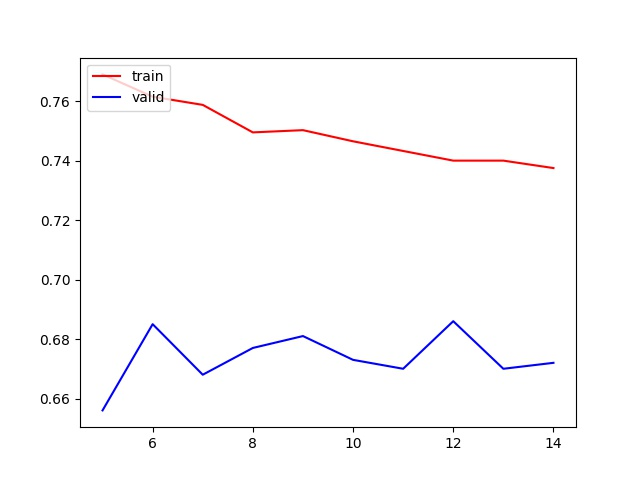
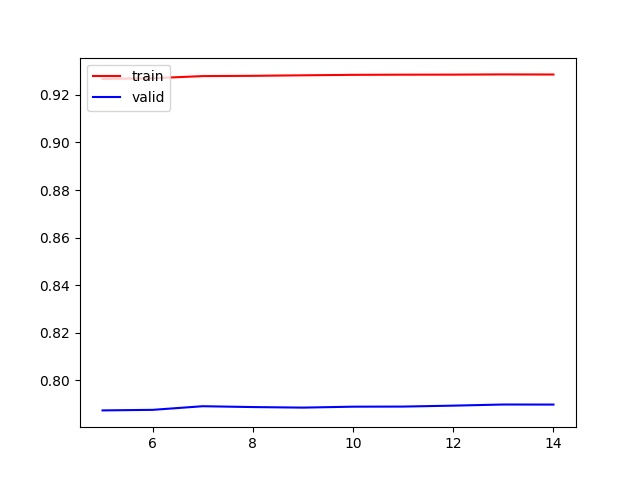
KNN COMPLETE

diff --git a/code/src/ms_2.py b/code/src/ms_2.py
@@ -13,6 +13,7 @@ from sklearn.metrics import confusion_matrix
 from sklearn.model_selection import cross_val_score
 from sklearn import metrics
 import datetime as dt
+from tune_params import *
 # def convert_to_number(data):
 #     number = preprocessing.LabelEncoder()
 #     data['outcome'] = number.fit_transform(data.outcome)
@@ -49,37 +50,21 @@ def main():
     df_2 = df.loc[:, df.columns == 'sex']
     print (df_2)
     from sklearn import preprocessing
-    le = preprocessing.LabelEncoder()
-    df_3 = df_2.apply(le.fit_transform)
-    print (df_3)
+    # le = preprocessing.LabelEncoder()
+    # df_3 = df_2.apply(le.fit_transform)
+    # print (df_3)
     enc = preprocessing.OneHotEncoder()
-    enc.fit(df_3)
-    onehotlabels = enc.transform(df_3).toarray()
+    enc.fit(df_2)
+    onehotlabels = enc.transform(df_2).toarray()
     print (onehotlabels)
-    df['sex_0'] = onehotlabels[:, 0]
-    df['sex_1'] = onehotlabels[:, 1]
+    df['female'] = onehotlabels[:, 0]
+    df['male'] = onehotlabels[:, 1]
     print (df)
     df = df.loc[:, df.columns != 'sex']
 
-
-    # from sklearn.preprocessing import MultiLabelBinarizer
-    # mlb = MultiLabelBinarizer()
-    # shift = mlb.fit_transform(df['sex'])
-    # print (shift)
-    # df['sex_0'] = shift[:, 0]
-    # df['sex_1'] = shift[:, 1]
-    #
-    # print (df)
-
-
-
-
-    # print(df)
-
-    # df =
-
     X = df.loc[:, df.columns != 'outcome']
     y = df['outcome']
+
 
     # from sklearn.preprocessing import StandardScaler
     # std_scaler = StandardScaler()
@@ -89,24 +74,49 @@ def main():
     min_max_scaler = preprocessing.MinMaxScaler()
     X = pd.DataFrame(min_max_scaler.fit_transform(X), columns=X.columns)
 
+    X['outcome'] = y
     print (X)
 
-
-    X_train, X_validation, Y_train, Y_validation = train_test_split(X, y, test_size=0.2, random_state=1)
-    #
-    # print(X_train)
-    # print(X_validation)
-    # print(Y_train)
-    # print(Y_validation)
-
-    knn = KNeighborsClassifier(n_neighbors=8, weights = 'distance')
-    knn.fit(X_train,Y_train)
-
-    print(knn.score(X_train,Y_train))
-    print(knn.score(X_validation,Y_validation))
+    params = {
+    	"n_neighbors": 5,
+    	"n_neighbors_increment": 1,
+    }
+    tune_params(X, params, loops=10, model_name="KNeighborsClassifier")
 
 
 
+
+
+
+
+
+
+
+
+
+
+
+
+
+
+
+
+
+
+
+
+
+
+
+
+
+
+
+
+
+
+
+###---------------------------------------------------------------------------------ITRAZA
 #
 # #--------------------------------------------CHANE ENCODER------------------------------
 #     le = preprocessing.LabelEncoder()

diff --git a/code/src/tune_params.py b/code/src/tune_params.py
@@ -7,8 +7,8 @@ from sklearn.ensemble import AdaBoostClassifier
 
 def tune_params(data, params, loops, model_name):
 
-	X = df.loc[:, df.columns != 'outcome']
-	y = df['outcome']
+	X = data.loc[:, data.columns != 'outcome']
+	y = data['outcome']
 	X_train, X_validation, Y_train, Y_validation = train_test_split(X, y, test_size=0.2, random_state=1)
 
 	if model_name == "RandomForestClassifier":
@@ -51,7 +51,13 @@ def tune_params(data, params, loops, model_name):
 		plt.xticks(rotation=90)
 		plt.savefig("./" + model_name + ".jpg")
 
+
+
+
+
+
 	if model_name == "KNeighborsClassifier":
+
 
 		resultset = [key for key, value in params.items() if key.endswith("_increment") == False]
 		resultset.append("training_score")
@@ -62,10 +68,10 @@ def tune_params(data, params, loops, model_name):
 		# print(plot_df)
 
 		n_neighbors = params["n_neighbors"]
-		
+
 
 		for i in range(loops):
-			model = KNeighborsClassifier(n_neighbors=n_neighbors)
+			model = KNeighborsClassifier(n_neighbors=n_neighbors, weights = 'distance')
 			model.fit(X_train,Y_train)
 
 			# print ("training score: ", model.score(X_train,Y_train))
@@ -86,6 +92,15 @@ def tune_params(data, params, loops, model_name):
 		plt.legend(loc="upper left")
 		plt.savefig("./" + model_name + ".jpg")
 
+
+
+
+
+
+
+
+
+
 	if model_name == "AdaBoostClassifier":
 
 		resultset = [key for key, value in params.items() if key.endswith("_increment") == False]
@@ -97,7 +112,7 @@ def tune_params(data, params, loops, model_name):
 		# print(plot_df)
 
 		n_estimators = params["n_estimators"]
-		
+
 
 		for i in range(loops):
 			model = AdaBoostClassifier(n_estimators=100)
@@ -122,10 +137,10 @@ def tune_params(data, params, loops, model_name):
 		plt.savefig("./" + model_name + ".jpg")
 
 
-df = pd.read_csv("../results/cases_train_processed.csv")
-df = df.head(5000)
-df = df.drop(columns=["province", "country", "date_confirmation", "sex"])
-print(df)
+# df = pd.read_csv("../results/cases_train_processed.csv")
+# df = df.head(5000)
+# df = df.drop(columns=["province", "country", "date_confirmation", "sex"])
+# print(df)
 
 # params = {
 # 	"n_estimators": 10,
@@ -141,8 +156,8 @@ print(df)
 # }
 # tune_params(df, params, loops=10, model_name="KNeighborsClassifier")
 
-params = {
-	"n_estimators": 5,
-	"n_estimators_increment": 1,
-}
-tune_params(df, params, loops=10, model_name="AdaBoostClassifier")
+# params = {
+# 	"n_estimators": 5,
+# 	"n_estimators_increment": 1,
+# }
+# tune_params(df, params, loops=10, model_name="AdaBoostClassifier")
